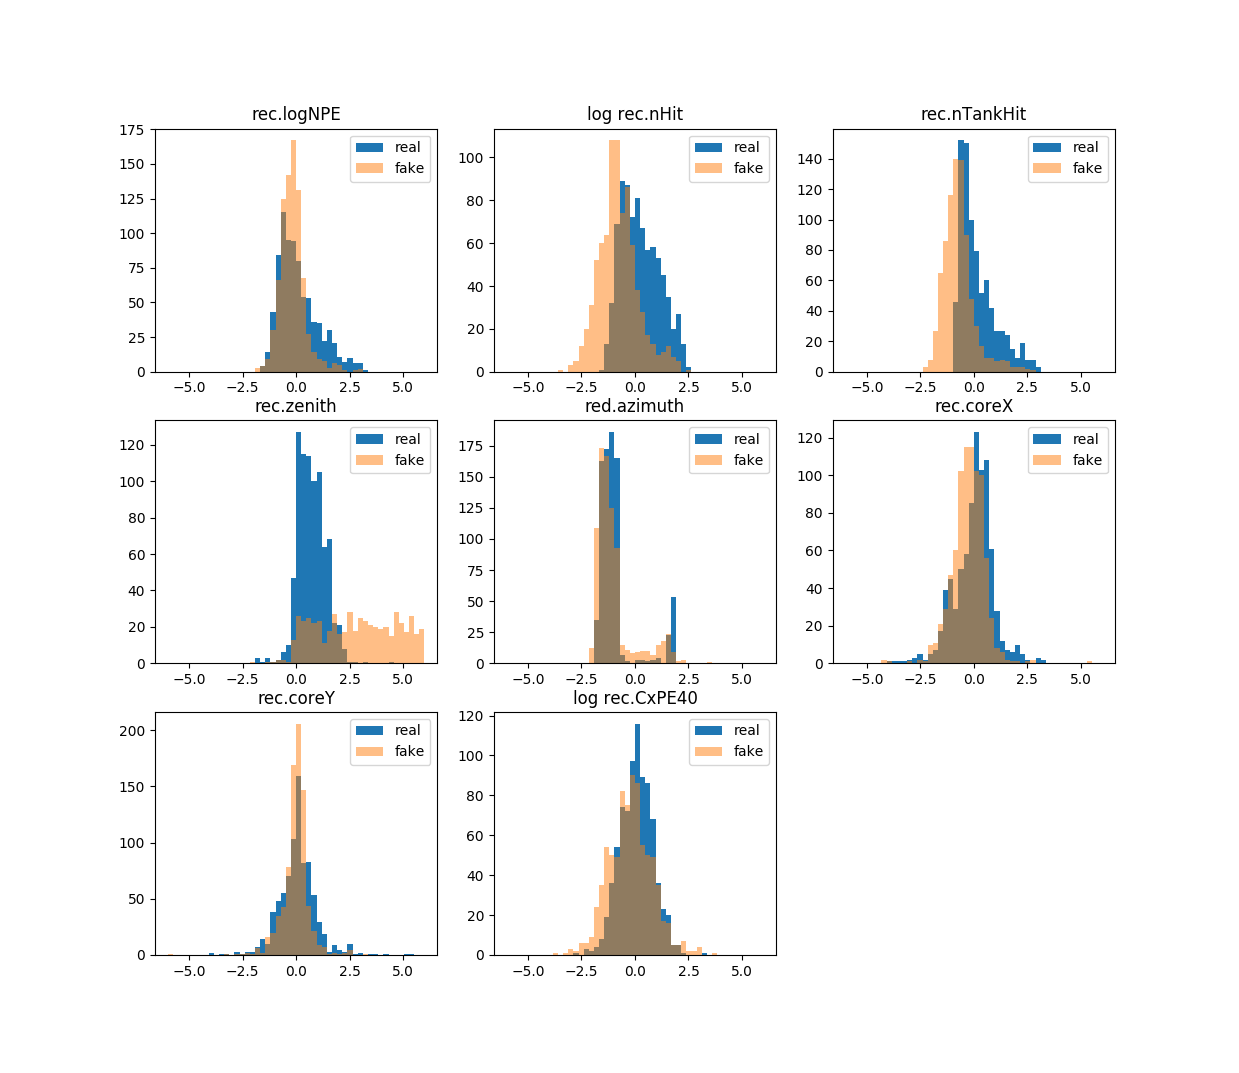
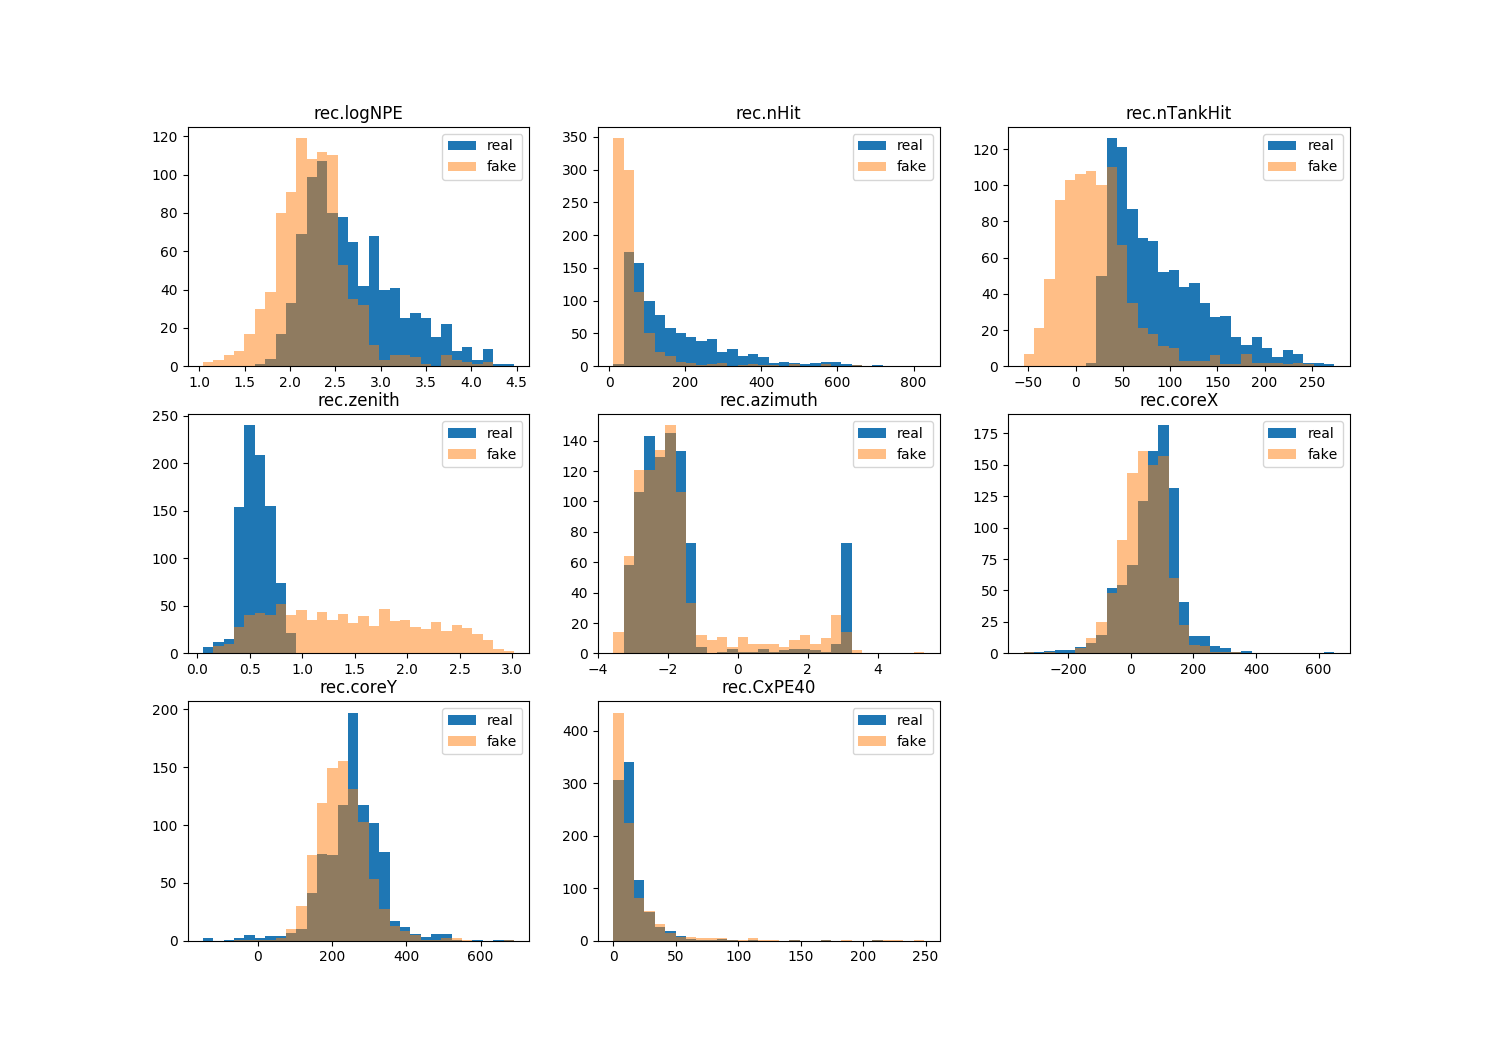
Fixed conditional plots

diff --git a/param-gen/Conditional 1DGAN/parameterCGAN.py b/param-gen/Conditional 1DGAN/parameterCGAN.py
@@ -70,9 +70,12 @@ dd = {'u': uniform, 'n': normal, 'e': exponential} 	# Dictionary of different di
 # latent   = [dd['e'](.8), dd['n'](0, 1), dd['n'](1, 2), dd['u'](0, 10)]
 # latent   = [dd['n'](0, 1)] * 10 + [dd['n'](0, 1)] * 6 + [dd['e'](1)] * 4
 latent = [dd['n'](0, 1)] * z_dim			# Creates a latent space entirely sampled from N(0, 1)
-labels = {0: "rec.logNPE", 1: "log rec.nHit", 2: "rec.nTankHit", 3: "rec.zenith", 
-          4: "red.azimuth", 5: "rec.coreX", 6: "rec.coreY", 7: "log rec.CxPE40",
-          8: "log SimEvent.energyTrue", 9: "SimEvent.thetaTrue", 10:"SimEvent.phiTrue"}
+labels = {0: "rec.logNPE", 1: "rec.nHit", 2: "rec.nTankHit", 3: "rec.zenith", 
+          4: "rec.azimuth", 5: "rec.coreX", 6: "rec.coreY", 7: "rec.CxPE40",
+          8: "SimEvent.energyTrue", 9: "SimEvent.thetaTrue", 10:"SimEvent.phiTrue"}
+means   = [2.6447110e+00, 4.6803799e+00, 7.8092407e+01, 4.1693807e-01, -8.8998480e-03, 6.5917976e+01, 2.5366927e+02,  2.3263862e+00, 7.7275338e+00, 2.3912493e+01, 1.7977229e+02]  # List of means for the loaded data
+stddevs = [0.5619153, 0.801478, 61.452538, 0.20918544, 1.8056167, 94.12724, 94.01841, 0.99879366, 1.7095443, 11.550515, 103.78041]			   									  # List of standard deviations for the loaded data
+logs    = [0, 1, 0, 0, 0, 0, 0, 1, 1, 0, 0, 0]													 																				  # Keep track of variables where we applied log	
 ## Sanity Checks ##
 assert z_dim >= data_dim
 assert z_dim == len(latent)
@@ -157,18 +160,21 @@ for epoch in range(epochs):
 			print('Fake Means = ', [np.mean(samples[:,i]) for i in range(data_dim)])
 
 
-			path = "pytorchhists/hist"
 			x = find_plot_dim(data_dim)
 			y = find_plot_dim(data_dim)
 			# y = max(data_dim - x, 1)
 			fig = plt.figure(figsize=(16, 16))
-			binwidth = [.5, 1, 15, 50, .25, 25]
 			for i in range(data_dim):
 				plt.subplot(x, y, i+1)
-				# bins = np.arange(0, max(real[:,i]), binwidth[i])
 				plt.title(labels[i])
-				plt.hist(real[:,i]   , bins=30, alpha=1, range=(-6, 6), label='real')
-				plt.hist(samples[:,i], bins=30, alpha=.5, range=(-6, 6), label='fake')
+				realhist = (real[:,i]*stddevs[i])+means[i]
+				fakehist = (samples[:,i]*stddevs[i])+means[i]
+				if (logs[i] == 1):
+					realhist = np.exp(realhist)
+					fakehist = np.exp(fakehist)
+				bins = np.histogram(np.hstack((realhist, fakehist)), bins=30)[1]
+				plt.hist(realhist, bins, alpha=1, label='real')
+				plt.hist(fakehist, bins, alpha=.5, label='fake')
 			plt.legend(loc='upper right')
 			plt.savefig('paramGANplots/hist'+str(epoch)+".png")
 			plt.close(fig)
@@ -199,18 +205,21 @@ for epoch in range(epochs):
 			print('Real Means = ', [np.mean(real[:,i]) for i in range(data_dim)])
 			print('Fake Means = ', [np.mean(samples[:,i]) for i in range(data_dim)])
 
-			path = "pytorchhists/hist"
 			x = find_plot_dim(data_dim)
 			y = find_plot_dim(data_dim)
 			# y = max(data_dim - x, 1)
 			fig = plt.figure(figsize=(16, 16))
-			binwidth = [.5, 1, 15, 50, .25, 12]
 			for i in range(data_dim):
 				plt.subplot(x, y, i+1)
-				# bins = np.arange(0, max(real[:,i]), binwidth[i])
 				plt.title(labels[i])
-				plt.hist(real[:,i]   , alpha=1, label='real')
-				plt.hist(samples[:,i], alpha=.5, label='fake')
+				realhist = (real[:,i]*stddevs[i])+means[i]
+				fakehist = (samples[:,i]*stddevs[i])+means[i]
+				if (logs[i] == 1):
+					realhist = np.exp(realhist)
+					fakehist = np.exp(fakehist)
+				bins = np.histogram(np.hstack((realhist, fakehist)), bins=30)[1]
+				plt.hist(realhist, bins, alpha=1, label='real')
+				plt.hist(fakehist, bins, alpha=.5, label='fake')
 			plt.legend(loc='upper right')
 			plt.savefig('paramGANplots/hist'+str(epoch)+".png")
 			plt.close(fig)
@@ -218,11 +227,3 @@ for epoch in range(epochs):
 		torch.save(G, "./saved/Gepoch"+str(epoch))
 		torch.save(D, "./saved/Depoch"+str(epoch))
 exit()
-# Ideas
-"""
--- Load all of the data for visualization at the end of 100 epochs
--- Multiple different types of ditributions as inputs for the z_ vector
--- Wider model
--- Deeper model
-
-"""

diff --git a/param-gen/Conditional 1DGAN/CGANvisulization.py b/param-gen/Conditional 1DGAN/CGANvisulization.py
@@ -32,10 +32,12 @@ num_dists = 8
 num_conds = 3
 ## Testing ##
 model = torch.load('./saved/Gepoch4000')  # Path to where saved generator model is 
-labels = {0: "rec.logNPE", 1: "log rec.nHit", 2: "rec.nTankHit", 3: "rec.zenith", 
-          4: "red.azimuth", 5: "rec.coreX", 6: "rec.coreY", 7: "log rec.CxPE40",
-          8: "log SimEvent.energyTrue", 9: "SimEvent.thetaTrue", 10:"SimEvent.phiTrue"}
-
+labels = {0: "rec.logNPE", 1: "rec.nHit", 2: "rec.nTankHit", 3: "rec.zenith", 
+          4: "rec.azimuth", 5: "rec.coreX", 6: "rec.coreY", 7: "rec.CxPE40",
+          8: "SimEvent.energyTrue", 9: "SimEvent.thetaTrue", 10:"SimEvent.phiTrue"}
+means   = [2.6447110e+00, 4.6803799e+00, 7.8092407e+01, 4.1693807e-01, -8.8998480e-03, 6.5917976e+01, 2.5366927e+02,  2.3263862e+00, 7.7275338e+00, 2.3912493e+01, 1.7977229e+02]  # List of means for the loaded data
+stddevs = [0.5619153, 0.801478, 61.452538, 0.20918544, 1.8056167, 94.12724, 94.01841, 0.99879366, 1.7095443, 11.550515, 103.78041]			   									  # List of standard deviations for the loaded data
+logs    = [0, 1, 0, 0, 0, 0, 0, 1, 1, 0, 0, 0]													 																				  # Keep track of variables where we applied log
 ## Loading Data ##
 testset = Data(train=False, normalize=True)
 testloader = torch.utils.data.DataLoader(dataset=testset, shuffle=True, batch_size=1)
@@ -51,22 +53,42 @@ valid_data = np.array(valid_data)
 print valid_data.shape
 
 # Use the commented code to visualize labels sampled from a uniform distribution instead
-# z_1 = torch.empty(valid_data.shape[0], 1).uniform_(cond_range[0][0], cond_range[0][1])
-# z_2 = torch.empty(valid_data.shape[0], 1).uniform_(cond_range[1][0], cond_range[1][1])
-# z_3 = torch.empty(valid_data.shape[0], 1).uniform_(cond_range[2][0], cond_range[2][1])
-# z_label = torch.cat([z_1, z_2, z_3], dim=1).cuda()
-z_label = torch.FloatTensor(valid_data[:,-3:]).cuda()
+z_1 = torch.empty(valid_data.shape[0], 1).uniform_(cond_range[0][0], cond_range[0][1])
+z_2 = torch.empty(valid_data.shape[0], 1).uniform_(cond_range[1][0], cond_range[1][1])
+z_3 = torch.empty(valid_data.shape[0], 1).uniform_(cond_range[2][0], cond_range[2][1])
+z_label = torch.cat([z_1, z_2, z_3], dim=1).cuda()
+# z_label = torch.FloatTensor(valid_data[:,-3:]).cuda()
 z_noise = torch.empty(valid_data.shape[0], 50).normal_(0, 1).cuda()  				# z_dim latent size
 
 print z_label.shape
 with torch.no_grad():	
 	generated = model(z_noise, z_label)
 
+# fig = plt.figure(figsize=(16, 16))
+# 			for i in range(data_dim):
+# 				plt.subplot(x, y, i+1)
+# 				plt.title(labels[i])
+# 				realhist = (real[:,i]*stddevs[i])+means[i]
+# 				fakehist = (samples[:,i]*stddevs[i])+means[i]
+# 				if (logs[i] == 1):
+# 					realhist = np.exp(realhist)
+# 					fakehist = np.exp(fakehist)
+# 				bins = np.histogram(np.hstack((realhist, fakehist)), bins=30)[1]
+# 				plt.hist(realhist, bins, alpha=1, label='real')
+# 				plt.hist(fakehist, bins, alpha=.5, label='fake')
+
+
 plt.figure(figsize=(15,15))
 for i in range(num_dists):
 	plt.subplot(3, 3, i+1)
 	plt.title(labels[i])
-	plt.hist(valid_data[:, i], alpha=1, bins = 50, range=(-6, 6), label='real')
-	plt.hist(generated[:, i], alpha=.5, bins = 50, range=(-6, 6), label='fake')
+	realhist = (valid_data[:,i]*stddevs[i])+means[i]
+	fakehist = (generated[:,i]*stddevs[i])+means[i]
+	if (logs[i] == 1):
+		realhist = np.exp(realhist)
+		fakehist = np.exp(fakehist)
+	bins = np.histogram(np.hstack((realhist, fakehist)), bins=30)[1]
+	plt.hist(realhist, bins, alpha=1, label='real')
+	plt.hist(fakehist, bins, alpha=.5, label='fake')
 	plt.legend()
 plt.show()

diff --git a/param-gen/Vanilla 1DGAN/parameterGAN.py b/param-gen/Vanilla 1DGAN/parameterGAN.py
@@ -67,11 +67,11 @@ dd = {'u': uniform, 'n': normal, 'e': exponential} 	# Dictionary of different di
 # latent   = [dd['e'](.8), dd['n'](0, 1), dd['n'](1, 2), dd['u'](0, 10)]
 # latent   = [dd['n'](0, 1)] * 10 + [dd['n'](0, 1)] * 6 + [dd['e'](1)] * 4
 latent = [dd['n'](0, 1)] * z_dim			# Creates a latent space entirely sampled from N(0, 1)
-labels = {0: "rec.logNPE", 1: "log rec.nHit", 2: "rec.nTankHit", 3: "rec.zenith", 
-          4: "rec.azimuth", 5: "rec.coreX", 6: "rec.coreY", 7: "log rec.CxPE40"}
+labels = {0: "rec.logNPE", 1: "rec.nHit", 2: "rec.nTankHit", 3: "rec.zenith", 
+          4: "rec.azimuth", 5: "rec.coreX", 6: "rec.coreY", 7: "rec.CxPE40"}
 means   = [2.6437070e+00, 4.6785073e+00, 7.7988869e+01, 4.1661051e-01, -1.4959634e-02, 6.5947525e+01, 2.5352551e+02, 2.3246317e+00]  # List of means for the loaded data
 stddevs = [0.5642389, 0.80296326, 61.57711, 0.2091742, 1.8062998, 94.742744, 94.72378, 0.9968804]									 # List of standard deviations for the loaded data
-logs    = [0, 1, 0, 0, 0, 0, 0, 0]																									 # Keep track of variables where we applied log	
+logs    = [0, 1, 0, 0, 0, 0, 0, 1]																									 # Keep track of variables where we applied log	
 ## Sanity Checks ##
 assert z_dim >= Dimension
 assert z_dim == len(latent)

diff --git a/param-gen/Conditional 1DGAN/data.py b/param-gen/Conditional 1DGAN/data.py
@@ -19,12 +19,8 @@ class Data(Dataset):
 
 			self.dataset = self.dataset[self.len:]
 		if normalize:
-			self.dataset -= [ 2.6428657e+00,  4.6778517e+00,  7.7909584e+01,  4.1665417e-01,
-       -1.0895852e-02,  6.5963097e+01,  2.5333636e+02,  2.3245733e+00,
-        7.7152114e+00,  2.3917170e+01,  1.8024490e+02]
-			self.dataset /= [  0.5619153 ,   0.801478  ,  61.452538  ,   0.20918544,
-         1.8056167 ,  94.12724   ,  94.01841   ,   0.99879366,
-         1.7095443 ,  11.550515  , 103.78041   ]
+			self.dataset -= [ 2.6447110e+00, 4.6803799e+00, 7.8092407e+01, 4.1693807e-01, -8.8998480e-03, 6.5917976e+01, 2.5366927e+02,  2.3263862e+00, 7.7275338e+00, 2.3912493e+01, 1.7977229e+02]
+			self.dataset /= [0.5619153, 0.801478, 61.452538, 0.20918544, 1.8056167, 94.12724, 94.01841, 0.99879366, 1.7095443, 11.550515, 103.78041]
 	def __getitem__(self, item):
 		assert self.len > item
 		vec = self.dataset[item]
